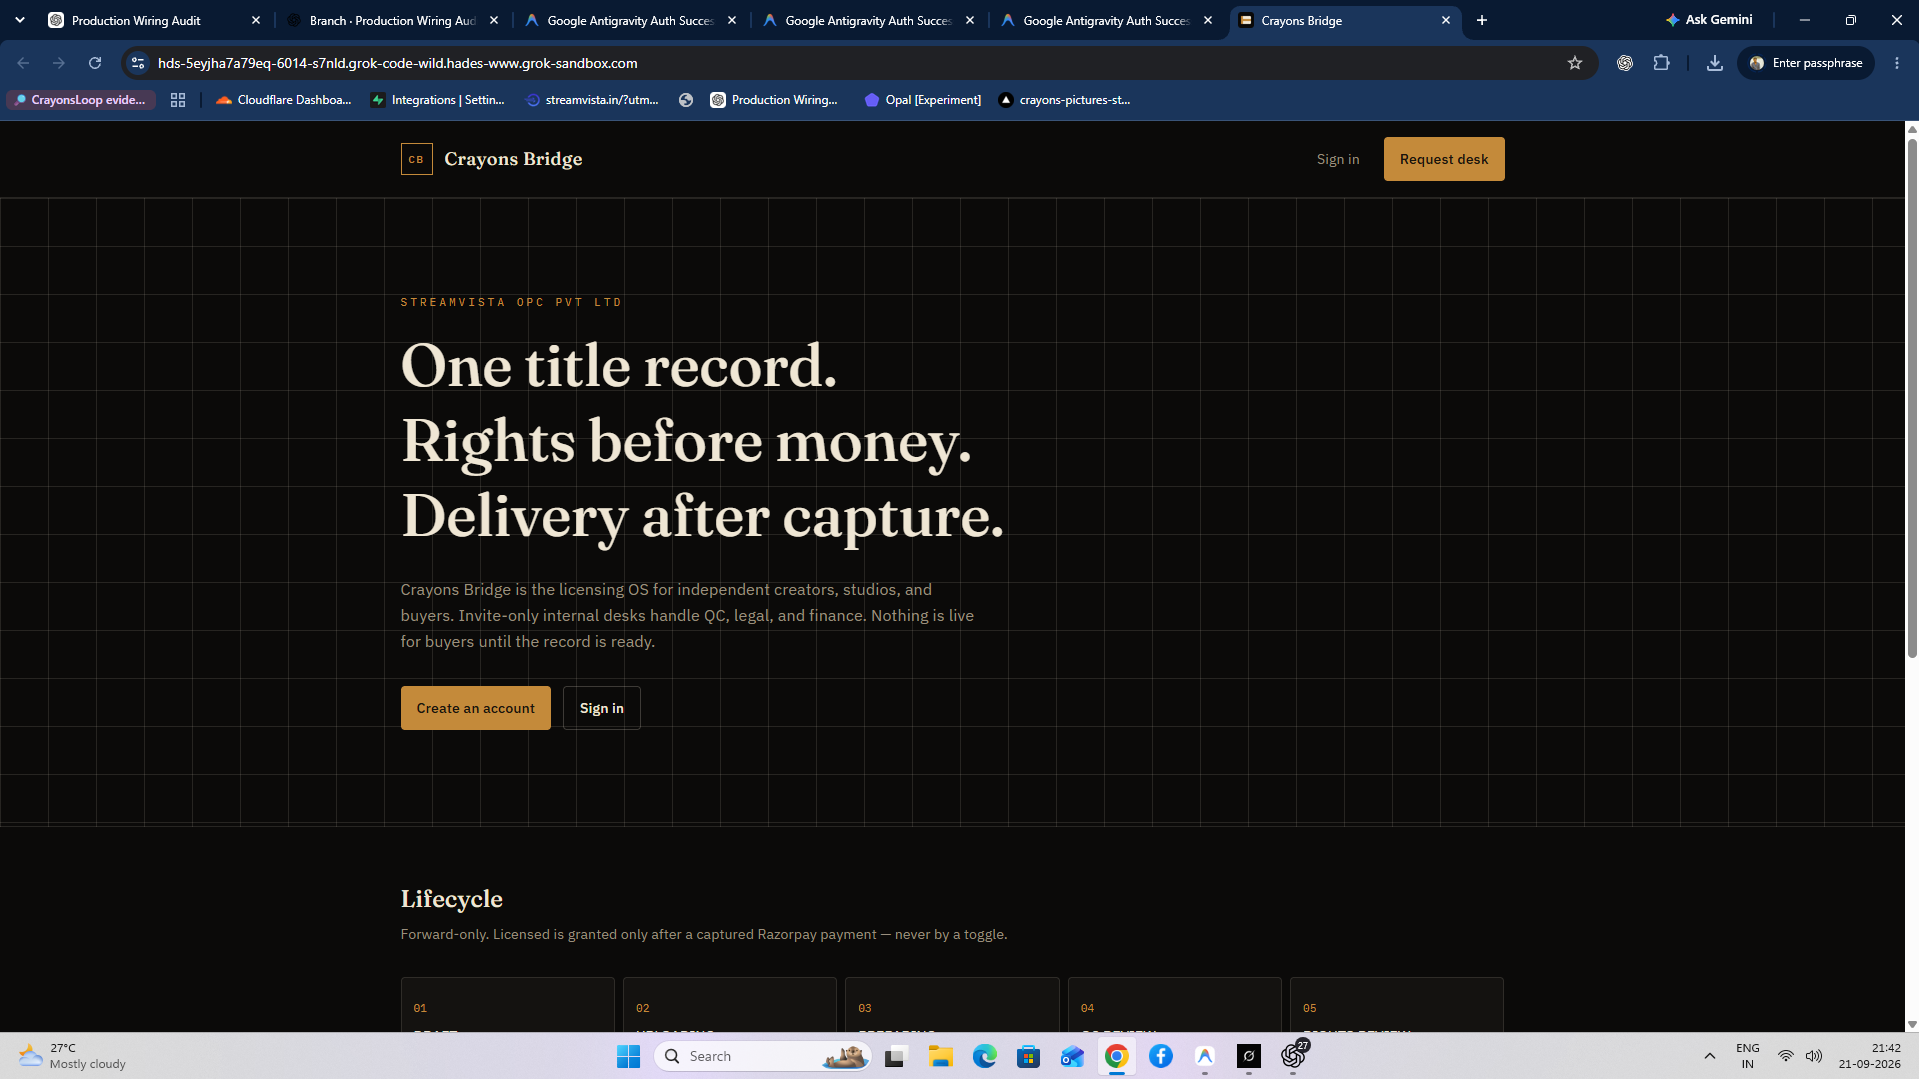
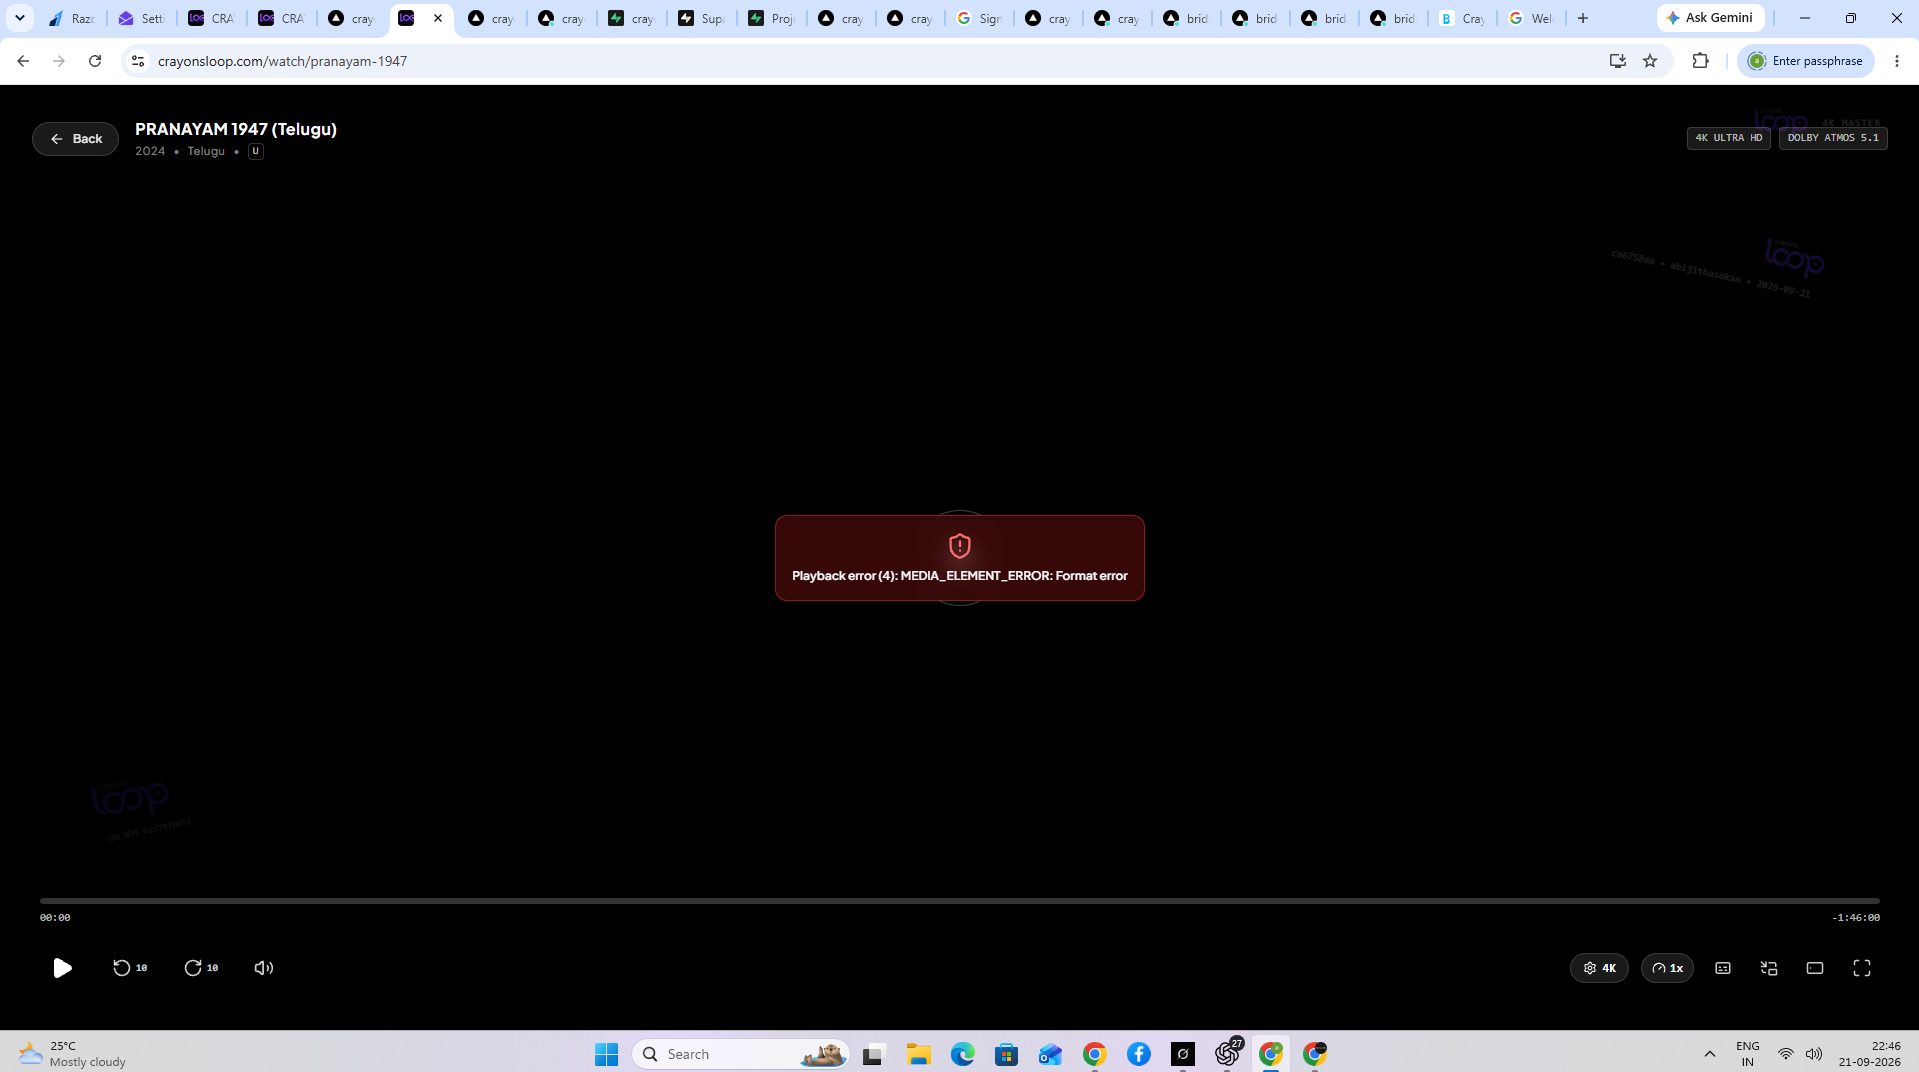
Export from Grok

diff --git a/src/lib/bridge/desks.ts b/src/lib/bridge/desks.ts
@@ -9,6 +9,8 @@ import { assertPermission, canReadTitle } from "./rbac";
 import { loadTitle, recordTransition } from "./titles";
 import { writeAudit } from "./audit";
 import { rightsAreEvidenced } from "./blockers";
+import { bridgeEnv } from "./env";
+import { assertLoopHandoffReady, loopHandoffBody, signLoopHandoffBody } from "./loop-handoff";
 
 const QC_DECISIONS = ["pass", "fail", "request_changes"] as const;
 
@@ -237,4 +239,117 @@ export const authorizeDelivery = createServerFn({ method: "POST" })
       reason: "server-authorized delivery after captured payment",
     });
     return { deliveryId: id, title: await loadTitle(title.id) };
+  });
+
+export const licenseTitleToLoop = createServerFn({ method: "POST" })
+  .middleware([authMiddleware])
+  .validator(z.object({ titleId: z.string().min(8) }))
+  .handler(async ({ context, data }) => {
+    assertNotDevUser(context.userId);
+    const actor = await requireActor(context.userId);
+    assertPermission(actor, "title.deliver");
+    const title = await loadTitle(data.titleId);
+    if (!title || !canReadTitle(actor, title)) throw new Error("Not found");
+    if (title.status !== "LICENSED") {
+      throw new Error("Loop license requires a captured payment and LICENSED status");
+    }
+    if (!title.masterKey) throw new Error("Private master is required before Loop license");
+    const sql = await getSql();
+    const paid = await sql<{ id: string }>`
+      select id from bridge_payments
+      where title_id = ${title.id} and status = 'captured'
+      order by created_at desc limit 1
+    `;
+    const paymentId = paid[0]?.id;
+    if (!paymentId) throw new Error("No captured Razorpay payment for this title");
+
+    const releaseId = randomBytes(16).toString("hex");
+    let handoff: { url: string; secret: string };
+    try {
+      handoff = assertLoopHandoffReady({
+        url: bridgeEnv.loopHandoffUrl(),
+        secret: bridgeEnv.loopHandoffSecret(),
+      });
+    } catch (err) {
+      await sql`
+        insert into bridge_loop_releases (id, title_id, payment_id, status, actor_user_id, reason)
+        values (${releaseId}, ${title.id}, ${paymentId}, ${"blocked"}, ${actor.userId}, ${"Loop ingest unset"})
+      `;
+      await writeAudit({
+        actorUserId: actor.userId,
+        actorRole: actor.internalRole,
+        action: "LOOP_LICENSE_BLOCKED",
+        entityType: "bridge_title",
+        entityId: title.id,
+        previousState: "LICENSED",
+        newState: "LICENSED",
+        reason: "Loop ingest unset — master stays private on Bridge",
+      });
+      throw err instanceof Error ? err : new Error("Loop ingest unset");
+    }
+
+    const { signDownload } = await import("./s3.server");
+    const signed = await signDownload({ key: title.masterKey, expiresIn: 300 });
+    const expiresAt = new Date(Date.now() + 300_000).toISOString();
+    const body = loopHandoffBody({
+      source: "crayons-bridge",
+      titleId: title.id,
+      slug: title.slug,
+      name: title.name,
+      language: title.language,
+      year: title.year,
+      masterKey: title.masterKey,
+      downloadUrl: signed.url,
+      expiresAt,
+    });
+    const signature = signLoopHandoffBody(body, handoff.secret);
+    const res = await fetch(handoff.url, {
+      method: "POST",
+      headers: {
+        "content-type": "application/json",
+        "x-bridge-signature": `sha256=${signature}`,
+      },
+      body,
+    });
+    if (!res.ok) {
+      const reason = `Loop ingest HTTP ${res.status}`;
+      await sql`
+        insert into bridge_loop_releases (id, title_id, payment_id, status, http_status, actor_user_id, reason)
+        values (${releaseId}, ${title.id}, ${paymentId}, ${"failed"}, ${res.status}, ${actor.userId}, ${reason})
+      `;
+      await writeAudit({
+        actorUserId: actor.userId,
+        actorRole: actor.internalRole,
+        action: "LOOP_LICENSE_FAILED",
+        entityType: "bridge_title",
+        entityId: title.id,
+        previousState: "LICENSED",
+        newState: "LICENSED",
+        reason,
+      });
+      throw new Error(`${reason}. Title stays private on Bridge.`);
+    }
+
+    await sql`
+      insert into bridge_loop_releases (id, title_id, payment_id, status, http_status, actor_user_id, reason)
+      values (${releaseId}, ${title.id}, ${paymentId}, ${"accepted"}, ${res.status}, ${actor.userId}, ${"Loop ingest accepted"})
+    `;
+    await recordTransition({
+      titleId: title.id,
+      from: "LICENSED",
+      to: "DELIVERED",
+      actorUserId: actor.userId,
+      note: "licensed to CRAYONS LOOP after capture",
+    });
+    await writeAudit({
+      actorUserId: actor.userId,
+      actorRole: actor.internalRole,
+      action: "LOOP_LICENSED",
+      entityType: "bridge_title",
+      entityId: title.id,
+      previousState: "LICENSED",
+      newState: "DELIVERED",
+      reason: "private master handed to Loop ingest; object remains non-public",
+    });
+    return { releaseId, title: await loadTitle(title.id) };
   });

diff --git a/src/routes/title.$id.tsx b/src/routes/title.$id.tsx
@@ -7,8 +7,8 @@ import { BridgeShell } from "@/components/bridge/shell";
 import { StatusRail } from "@/components/bridge/status-rail";
 import { Button } from "@/components/ui/button";
 import { advanceTitle, getTitle, reverseTitle } from "@/lib/bridge/titles";
-import { listTitleAssets, requestAssetUpload } from "@/lib/bridge/assets";
-import { submitQcReview, saveTitleRights, authorizeDelivery } from "@/lib/bridge/desks";
+import { submitQcReview, saveTitleRights, authorizeDelivery, licenseTitleToLoop } from "@/lib/bridge/desks";
+import { listTitleAssets, requestAssetUpload, requestAssetDownload } from "@/lib/bridge/assets";
 import { nextStatus } from "@/lib/bridge/lifecycle";
 import { hasPermission, permissionForTransition } from "@/lib/bridge/rbac";
 import { TITLE_STATUSES, type AssetKind } from "@/lib/bridge/types";
@@ -108,13 +108,21 @@ function TitleBody({ id, actor }: { id: string; actor: BridgeActor }) {
       </section>
 
       <section>
-        <h3 className="font-display text-xl">Assets</h3>
+        <h3 className="font-display text-xl">Private assets</h3>
+        <p className="mt-2 text-sm text-muted">
+          Masters stay in this desk. They are never a public Loop URL.
+        </p>
         {canUpload ? <UploadPanel titleId={title.id} /> : null}
         <ul className="mt-3 space-y-2 text-sm">
           {(assetsQ.data?.assets ?? []).length ? (
             (assetsQ.data?.assets ?? []).map((a) => (
-              <li key={a.id} className="rounded-sm border border-line px-3 py-2 font-mono text-xs">
-                {a.kind} · {a.id}
+              <li key={a.id} className="flex flex-wrap items-center justify-between gap-2 rounded-sm border border-line px-3 py-2">
+                <span className="font-mono text-xs">
+                  {a.kind} · {a.id.slice(0, 8)}
+                </span>
+                {hasPermission(actor, "asset.sign_download") ? (
+                  <SignedOpen assetId={a.id} />
+                ) : null}
               </li>
             ))
           ) : (
@@ -155,7 +163,13 @@ function TitleBody({ id, actor }: { id: string; actor: BridgeActor }) {
 
       {canDeliver ? (
         <section>
-          <h3 className="font-display text-xl">Delivery</h3>
+          <h3 className="font-display text-xl">License to Loop</h3>
+          <p className="mt-2 text-sm text-muted">
+            CRAYONS LOOP is the public storefront. This desk licenses a captured title to Loop.
+            The S3 object stays private. Ingest unset = blocked, not fake success.
+          </p>
+          <LoopLicenseForm titleId={title.id} />
+          <p className="mt-6 text-sm text-muted">Buyer package (signed GET), not a public master:</p>
           <DeliveryForm titleId={title.id} />
         </section>
       ) : null}
@@ -375,6 +389,41 @@ function RightsForm({ titleId }: { titleId: string }) {
         Approve rights
       </Button>
     </form>
+  );
+}
+
+function SignedOpen({ assetId }: { assetId: string }) {
+  const mut = useMutation({
+    mutationFn: () => requestAssetDownload({ data: { assetId } }),
+    onSuccess: (signed) => {
+      window.open(signed.url, "_blank", "noopener,noreferrer");
+    },
+    onError: (err) => toast(err instanceof Error ? err.message : "Signed GET denied"),
+  });
+  return (
+    <Button type="button" variant="outline" disabled={mut.isPending} onClick={() => mut.mutate()}>
+      Signed GET
+    </Button>
+  );
+}
+
+function LoopLicenseForm({ titleId }: { titleId: string }) {
+  const qc = useQueryClient();
+  const mut = useMutation({
+    mutationFn: () => licenseTitleToLoop({ data: { titleId } }),
+    onSuccess: () => {
+      toast("Loop ingest accepted");
+      void qc.invalidateQueries({ queryKey: ["bridge-title", titleId] });
+      void qc.invalidateQueries({ queryKey: ["bridge-titles"] });
+    },
+    onError: (err) => toast(err instanceof Error ? err.message : "Loop license blocked"),
+  });
+  return (
+    <div className="mt-4">
+      <Button type="button" disabled={mut.isPending} onClick={() => mut.mutate()}>
+        License to Loop
+      </Button>
+    </div>
   );
 }
 

diff --git a/src/routes/internal.tsx b/src/routes/internal.tsx
@@ -25,7 +25,8 @@ function Internal() {
       {(actor) => (
         <BridgeShell actor={actor} title="Operations desk">
           <p className="mb-6 text-sm text-muted">
-            {actor.internalRole?.replaceAll("_", " ")} · {actor.email}
+            {actor.internalRole?.replaceAll("_", " ")} · {actor.email}. Private masters live here.
+            Loop receives a license only after capture.
           </p>
           <InternalBody
             canInvite={hasPermission(actor, "users.invite_internal")}
@@ -79,7 +80,15 @@ function InternalBody({
         {desk === "qc" ? <TitleQueue titles={qcQueue} empty="No titles in QC review." /> : null}
         {desk === "rights" ? <TitleQueue titles={rightsQueue} empty="No titles in rights review." /> : null}
         {desk === "finance" ? canFinance ? <FinanceDesk /> : <p className="text-sm text-muted">Unauthorized.</p> : null}
-        {desk === "delivery" ? <TitleQueue titles={deliveryQueue} empty="No licensed titles waiting on delivery." /> : null}
+        {desk === "delivery" ? (
+          <div className="space-y-4">
+            <p className="text-sm text-muted">
+              Licensed titles waiting for Loop ingest. Objects stay private on Bridge until ingest
+              accepts a signed GET. Unset ingest fails closed.
+            </p>
+            <TitleQueue titles={deliveryQueue} empty="No licensed titles waiting on Loop." />
+          </div>
+        ) : null}
         {desk === "audit" ? canAudit ? <AuditDesk /> : <p className="text-sm text-muted">Unauthorized.</p> : null}
         {desk === "settings" ? canInvite ? <InviteForm /> : <p className="text-sm text-muted">No settings for this role.</p> : null}
       </div>

diff --git a/src/lib/bridge/env.ts b/src/lib/bridge/env.ts
@@ -1,4 +1,4 @@
-import { HOSTINGER_SMTP_HOST, HOSTINGER_SMTP_PORT, TRANSACTIONAL_FROM } from "./canonical";
+import { CANONICAL_SUPABASE_URL, HOSTINGER_SMTP_HOST, HOSTINGER_SMTP_PORT, TRANSACTIONAL_FROM, assertCanonicalSupabaseUrl } from "./canonical";
 
 function read(key: string): string | undefined {
   const v = typeof process === "undefined" ? undefined : process.env[key]?.trim();
@@ -6,7 +6,8 @@ function read(key: string): string | undefined {
 }
 
 export const bridgeEnv = {
-  supabaseUrl: () => read("SUPABASE_URL") || read("VITE_SUPABASE_URL"),
+  supabaseUrl: () =>
+    assertCanonicalSupabaseUrl(read("SUPABASE_URL") || read("VITE_SUPABASE_URL") || CANONICAL_SUPABASE_URL),
   supabaseAnon: () => read("VITE_SUPABASE_PUBLISHABLE_KEY") || read("VITE_SUPABASE_ANON_KEY"),
   supabaseService: () => read("SUPABASE_SERVICE_ROLE_KEY"),
   razorpayKeyId: () => read("RAZORPAY_KEY_ID"),
@@ -23,6 +24,8 @@ export const bridgeEnv = {
   mailFrom: () => read("MAIL_FROM") || TRANSACTIONAL_FROM,
   appUrl: () => read("BETTER_AUTH_URL") || read("APP_URL") || "https://bridge.crayonspictures.com",
   databaseUrl: () => read("DATABASE_URL"),
+  loopHandoffUrl: () => read("LOOP_HANDOFF_URL"),
+  loopHandoffSecret: () => read("LOOP_HANDOFF_SECRET"),
 };
 
 export function integrationStatus() {
@@ -33,5 +36,6 @@ export function integrationStatus() {
     razorpayWebhook: Boolean(bridgeEnv.razorpayWebhookSecret()),
     s3: Boolean(bridgeEnv.s3Bucket() && bridgeEnv.awsAccessKey() && bridgeEnv.awsSecretKey()),
     mail: Boolean(bridgeEnv.smtpHost() && bridgeEnv.smtpUser() && bridgeEnv.smtpPass()),
+    loop: Boolean(bridgeEnv.loopHandoffUrl() && bridgeEnv.loopHandoffSecret()),
   };
 }

diff --git a/src/routes/index.tsx b/src/routes/index.tsx
@@ -56,14 +56,16 @@ function Home() {
         </div>
         <p className="mt-10 max-w-xl text-sm leading-relaxed text-faint">
           Private control plane — not a public catalog. Invite-only QC, legal, and finance desks.
-          Licensed only after a captured Razorpay payment.
+          Licensed only after a captured Razorpay payment. CRAYONS LOOP receives that license from
+          this desk; masters are never public objects.
         </p>
-        <ul className="mt-12 grid grid-cols-2 gap-2 text-sm sm:grid-cols-5">
+        <ul className="mt-12 grid grid-cols-2 gap-2 text-sm sm:grid-cols-3">
           <EnvChip label="Postgres" ok={integrations?.postgres} />
           <EnvChip label="S3" ok={integrations?.s3} />
           <EnvChip label="Razorpay" ok={integrations?.razorpay} />
           <EnvChip label="Mail" ok={integrations?.mail} />
           <EnvChip label="Supabase pin" ok={integrations?.supabase} />
+          <EnvChip label="Loop ingest" ok={integrations?.loop} />
         </ul>
       </main>
     </div>

diff --git a/src/lib/bridge/loop-handoff.ts b/src/lib/bridge/loop-handoff.ts
@@ -1,0 +1,35 @@
+import { createHmac } from "node:crypto";
+
+export function assertLoopHandoffReady(input: { url?: string; secret?: string }) {
+  const url = input.url?.trim() ?? "";
+  const secret = input.secret?.trim() ?? "";
+  if (!url || !secret) {
+    throw new Error(
+      "Loop ingest is unset. Title stays private on Bridge. Bind LOOP_HANDOFF_URL and LOOP_HANDOFF_SECRET on Vercel Preview.",
+    );
+  }
+  if (!url.startsWith("https://")) {
+    throw new Error("Loop ingest URL must be https");
+  }
+  return { url, secret };
+}
+
+export function signLoopHandoffBody(body: string, secret: string) {
+  return createHmac("sha256", secret).update(body).digest("hex");
+}
+
+export type LoopHandoffPayload = {
+  source: "crayons-bridge";
+  titleId: string;
+  slug: string;
+  name: string;
+  language: string;
+  year: number | null;
+  masterKey: string;
+  downloadUrl: string;
+  expiresAt: string;
+};
+
+export function loopHandoffBody(payload: LoopHandoffPayload) {
+  return JSON.stringify(payload);
+}

diff --git a/src/lib/bridge/loop-handoff.test.ts b/src/lib/bridge/loop-handoff.test.ts
@@ -1,0 +1,23 @@
+import assert from "node:assert/strict";
+import test from "node:test";
+import { assertLoopHandoffReady, signLoopHandoffBody } from "./loop-handoff.ts";
+
+test("loop ingest fails closed when unset", () => {
+  assert.throws(() => assertLoopHandoffReady({}), /Loop ingest is unset/);
+  assert.throws(() => assertLoopHandoffReady({ url: "https://example.com", secret: "" }), /unset/);
+});
+
+test("loop ingest rejects non-https", () => {
+  assert.throws(
+    () => assertLoopHandoffReady({ url: "http://crayonsloop.com/ingest", secret: "x" }),
+    /https/,
+  );
+});
+
+test("hmac is deterministic", () => {
+  const a = signLoopHandoffBody('{"titleId":"1"}', "secret");
+  const b = signLoopHandoffBody('{"titleId":"1"}', "secret");
+  const c = signLoopHandoffBody('{"titleId":"2"}', "secret");
+  assert.equal(a, b);
+  assert.notEqual(a, c);
+});
